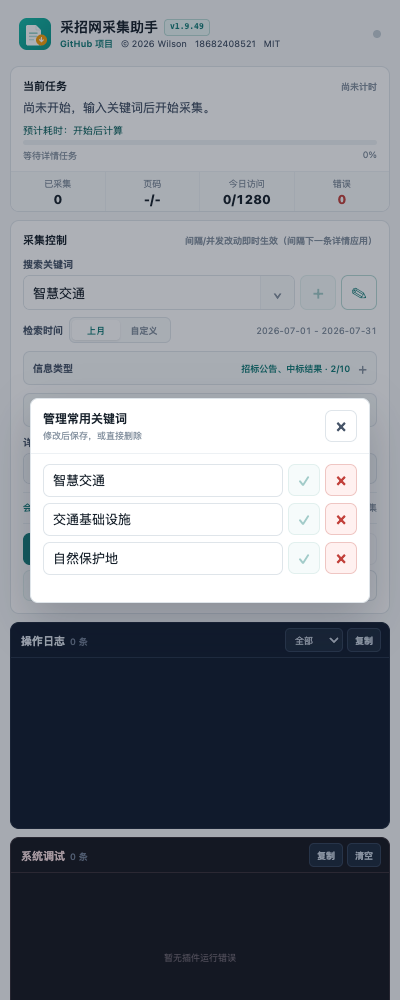
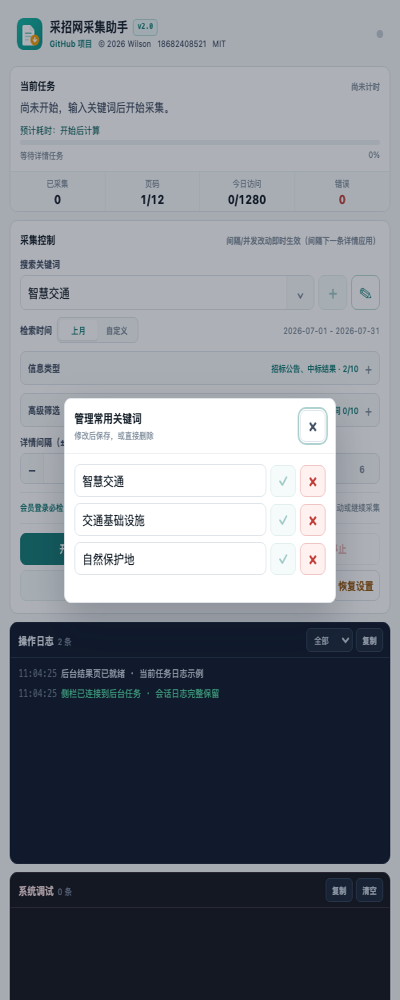
feat: v2.0 preserve complete task logs

diff --git a/sidepanel.js b/sidepanel.js
@@ -559,12 +559,14 @@ function renderLogs() {
   const filter = $('#log-filter').value;
   const logs = filter === 'all' ? latestLogs : latestLogs.filter((entry) => entry.level === filter);
   const logsEl = $('#logs');
-  logsEl.replaceChildren(...logs.slice(-180).map((entry) => {
+  const fragment = document.createDocumentFragment();
+  logs.forEach((entry) => {
     const row = document.createElement('div');
     row.className = `log ${entry.level || 'info'}`;
     row.innerHTML = `<time>${formatTime(entry.time)}</time>${escapeHtml(entry.message)}${entry.detail ? ` · ${escapeHtml(entry.detail)}` : ''}`;
-    return row;
-  }));
+    fragment.append(row);
+  });
+  logsEl.replaceChildren(fragment);
   $('#log-count').textContent = `${latestLogs.length} 条`;
   if (logsFollowTail) logsEl.scrollTop = logsEl.scrollHeight;
 }
@@ -672,11 +674,15 @@ function calibrationStats(log = []) {
 let latestCalibrationStats = null;
 
 async function getState() {
-  const stored = await chrome.storage.local.get(['task', 'taskLogs', 'collectorSettings', 'systemErrors', 'dailyQuotaUsage', 'officialAdvancedFilterOptions', 'keywordOptions', 'calibrationLog', INTERVAL_DEFAULT_MIGRATION_KEY]);
+  const [stored, sessionStored] = await Promise.all([
+    chrome.storage.local.get(['task', 'collectorSettings', 'systemErrors', 'dailyQuotaUsage', 'officialAdvancedFilterOptions', 'keywordOptions', 'calibrationLog', INTERVAL_DEFAULT_MIGRATION_KEY]),
+    chrome.storage.session.get('taskLogs')
+  ]);
   latestCalibrationStats = calibrationStats(stored.calibrationLog || []);
   let task = stored.task || {};
   let collectorSettings = stored.collectorSettings || {};
-  const { taskLogs = [], systemErrors = [], dailyQuotaUsage = {}, officialAdvancedFilterOptions = {} } = stored;
+  const { taskLogs = [] } = sessionStored;
+  const { systemErrors = [], dailyQuotaUsage = {}, officialAdvancedFilterOptions = {} } = stored;
   if (!stored[INTERVAL_DEFAULT_MIGRATION_KEY]) {
     const migration = { [INTERVAL_DEFAULT_MIGRATION_KEY]: true };
     if (Number(collectorSettings.intervalMs) === 3000) {
@@ -1021,6 +1027,10 @@ window.addEventListener('unhandledrejection', (event) => {
   reportSidepanelError(event.reason instanceof Error ? event.reason : new Error(String(event.reason)), '未处理的 Promise 异常').catch(() => undefined);
 });
 chrome.storage.onChanged.addListener((changes, area) => {
+  if (area === 'session') {
+    if (activationReady && changes.taskLogs) getState().catch(reportReadError);
+    return;
+  }
   if (area !== 'local') return;
   if (changes[ACTIVATION_STORAGE_KEY]) {
     const isActivated = changes[ACTIVATION_STORAGE_KEY].newValue?.activated === true;
@@ -1028,8 +1038,14 @@ chrome.storage.onChanged.addListener((changes, area) => {
     if (isActivated) startStatePolling();
     return;
   }
-  if (!activationReady || !(changes.task || changes.taskLogs || changes.systemErrors || changes.dailyQuotaUsage || changes.officialAdvancedFilterOptions || changes.keywordOptions)) return;
+  if (!activationReady || !(changes.task || changes.systemErrors || changes.dailyQuotaUsage || changes.officialAdvancedFilterOptions || changes.keywordOptions)) return;
   getState().catch(reportReadError);
+});
+
+window.addEventListener('pagehide', () => {
+  if (['idle', 'complete', 'stopped'].includes(latestState.status || 'idle')) {
+    chrome.storage.session.remove('taskLogs').catch(() => undefined);
+  }
 });
 initializeSidepanel().catch(reportReadError);
 

diff --git a/background.js b/background.js
@@ -327,11 +327,11 @@ async function saveTask(patch) {
 
 function log(level, message, detail = '') {
   logQueue = logQueue.then(async () => {
-    const { taskLogs = [] } = await chrome.storage.local.get('taskLogs');
+    const { taskLogs = [] } = await chrome.storage.session.get('taskLogs');
     const logs = [...taskLogs, {
       time: new Date().toISOString(), level, message, detail: String(detail || '')
-    }].slice(-500);
-    await chrome.storage.local.set({ taskLogs: logs });
+    }];
+    await chrome.storage.session.set({ taskLogs: logs });
   });
   return logQueue;
 }
@@ -371,7 +371,9 @@ async function startSilentSearch(keyword, rawSettings = {}) {
     startedAt: new Date().toISOString(), pausedAt: '', totalPausedMs: 0, endedAt: '',
     updatedAt: new Date().toISOString()
   } });
-  await chrome.storage.local.set({ taskLogs: [] });
+  await logQueue;
+  await chrome.storage.session.set({ taskLogs: [] });
+  await chrome.storage.local.remove('taskLogs');
   await chrome.action.setBadgeText({ text: '' });
   await log('info', '开始后台搜索', `${keyword}；会员登录已校验；${timeLabel} ${timeRange.start} 至 ${timeRange.end}；高级筛选 ${advancedSummary}；排除词 ${settings.excludeWords.length}/5；相关词 ${settings.relatedWords.length}/5；依次筛选 ${informationTypes.join(' → ')}；间隔 ${settings.intervalMs}ms；并发 ${settings.concurrency}`);
   let tab;
@@ -1060,8 +1062,9 @@ chrome.runtime.onMessage.addListener((message, sender, sendResponse) => {
   if (message.type === 'CLEAR_TASK') {
     (async () => {
       await stopTask();
-      await Promise.allSettled([progressQueue, partialQueue]);
+      await Promise.allSettled([progressQueue, partialQueue, logQueue]);
       await chrome.storage.local.remove(['task', 'taskLogs']);
+      await chrome.storage.session.remove('taskLogs');
       await chrome.action.setBadgeText({ text: '' });
       sendResponse({ ok: true });
     })().catch((error) => sendResponse({ error: error.message }));
@@ -1097,11 +1100,12 @@ chrome.runtime.onMessage.addListener((message, sender, sendResponse) => {
   if (message.type === 'RESET_SETTINGS') {
     (async () => {
       await stopTask();
-      await Promise.allSettled([progressQueue, partialQueue]);
+      await Promise.allSettled([progressQueue, partialQueue, logQueue]);
       await chrome.storage.local.remove([
         'task', 'taskLogs', 'collectorSettings', 'systemErrors', 'calibrationLog',
         'officialAdvancedFilterOptions', 'keywordOptions', 'intervalDefault5000Migrated', ACTIVATION_STORAGE_KEY
       ]);
+      await chrome.storage.session.remove('taskLogs');
       await chrome.action.setBadgeText({ text: '' });
       sendResponse({ ok: true });
     })().catch((error) => sendResponse({ error: error.message }));

diff --git a/sidepanel.html b/sidepanel.html
@@ -13,7 +13,7 @@
           <img class="activation-logo" src="logo.svg" alt="采招网采集助手 logo">
           <div>
             <div class="brand-kicker">BIDCENTER / COLLECTOR</div>
-            <strong class="brand-title">采招网采集助手 <span class="version-badge" data-app-version>v1.9.49</span></strong>
+            <strong class="brand-title">采招网采集助手 <span class="version-badge" data-app-version>v2.0</span></strong>
           </div>
         </header>
 
@@ -54,7 +54,7 @@
       <header class="topbar">
         <img class="brand-logo" src="logo.svg" alt="采招网采集助手 logo">
         <div class="brand-copy">
-          <h1 class="brand-title">采招网采集助手 <span class="version-badge" data-app-version>v1.9.49</span></h1>
+          <h1 class="brand-title">采招网采集助手 <span class="version-badge" data-app-version>v2.0</span></h1>
           <div class="topbar-meta">
             <a class="project-link" href="https://github.com/HachikoJ/BidCenter-Collector" target="_blank" rel="noopener noreferrer" title="访问 GitHub 公开项目">GitHub 项目</a>
             <span>© 2026 Wilson</span>
@@ -209,8 +209,17 @@
       </section>
 
       <details class="version-history">
-        <summary><span>版本历史</span><small>v1.9.49 当前版本</small></summary>
+        <summary><span>版本历史</span><small>v2.0 当前版本</small></summary>
         <div class="version-history-list">
+          <article>
+            <strong>v2.0</strong>
+            <ul>
+              <li>操作日志不再限制条数，完整保留本次任务的全部记录。</li>
+              <li>日志改用浏览器会话存储；新任务开始、清空任务、恢复设置或浏览器关闭后自动清空。</li>
+              <li>运行、暂停、验证等待和可恢复错误期间关闭侧边栏，不会丢失本次任务日志。</li>
+              <li>版本号改为两段式，按 v1.1、v1.2、v1.9、v2.0 的规则递增。</li>
+            </ul>
+          </article>
           <article>
             <strong>v1.9.49</strong>
             <ul>

diff --git a/README.md b/README.md
@@ -76,7 +76,7 @@
 - 人机验证处理：检测到滑块时暂停整个任务并打开验证页，用户手动完成后自动续采；纯访问频控提示则冷却后重试。
 - 完整内容留存：除结构化字段外，还保存详情页正文全文和字段证据。
 - Excel 导出：暂停、停止或完成后均可导出当前已保存结果；网址可直接点击，项目预算使用常用中文金额单位。
-- 操作日志与系统诊断：记录每条自动操作、字段缺失和插件运行错误，可一键复制给开发者。
+- 操作日志与系统诊断：完整记录本次任务的每条自动操作和字段缺失，可一键复制；日志仅保存在浏览器会话中，新任务开始或浏览器关闭后自动清空。插件运行错误单独保留，便于提交给开发者。
 
 ## 安装方法
 
@@ -162,6 +162,12 @@ docs/screenshots/      GitHub 产品截图
 - 仓库不包含采招网官方会员导出模板、用户采集数据、账号 Cookie、Token 或其他个人凭据。
 
 ## 更新记录
+
+### 2026-08-16 · v2.0
+
+- 操作日志取消 500 条写入上限和 180 条显示上限，完整展示本次任务的全部记录。
+- 任务日志改用浏览器会话存储，新任务开始、清空任务、恢复设置或浏览器关闭后自动清空；运行、暂停、验证等待和可恢复错误期间关闭侧边栏不会丢失本次日志。
+- 版本号改为两段式，按 `1.1`、`1.2`、`1.9`、`2.0` 的规则递增。
 
 ### 2026-08-16 · v1.9.49
 
